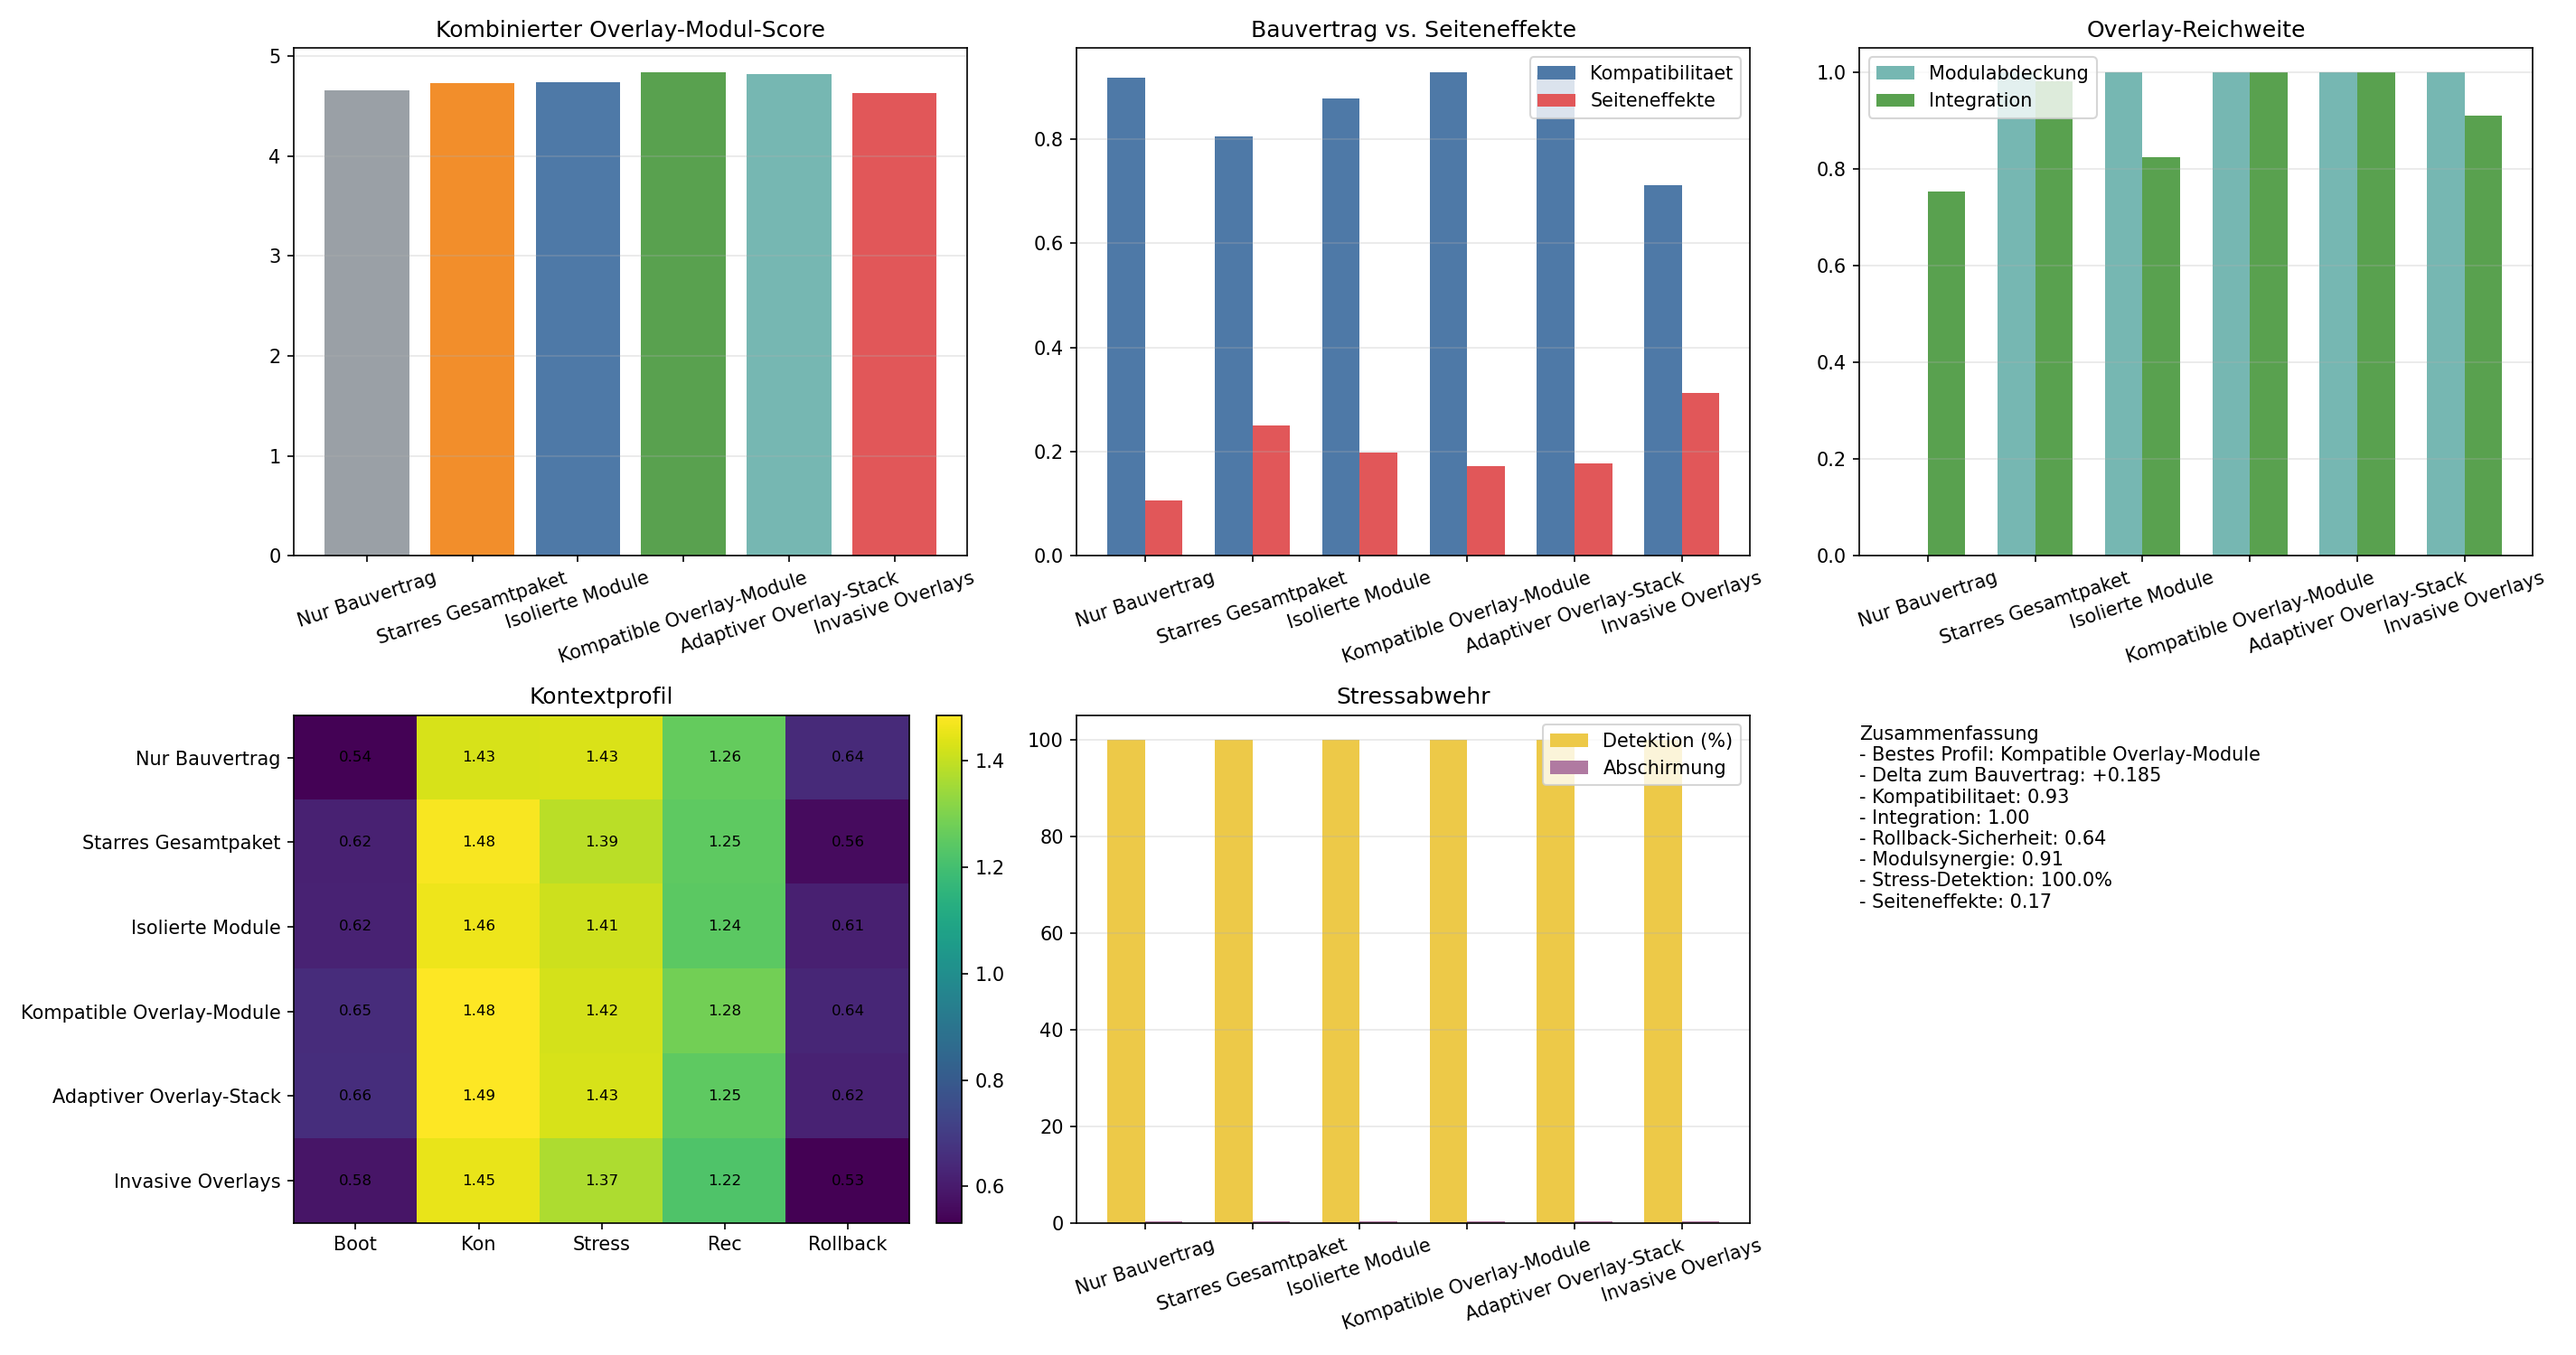
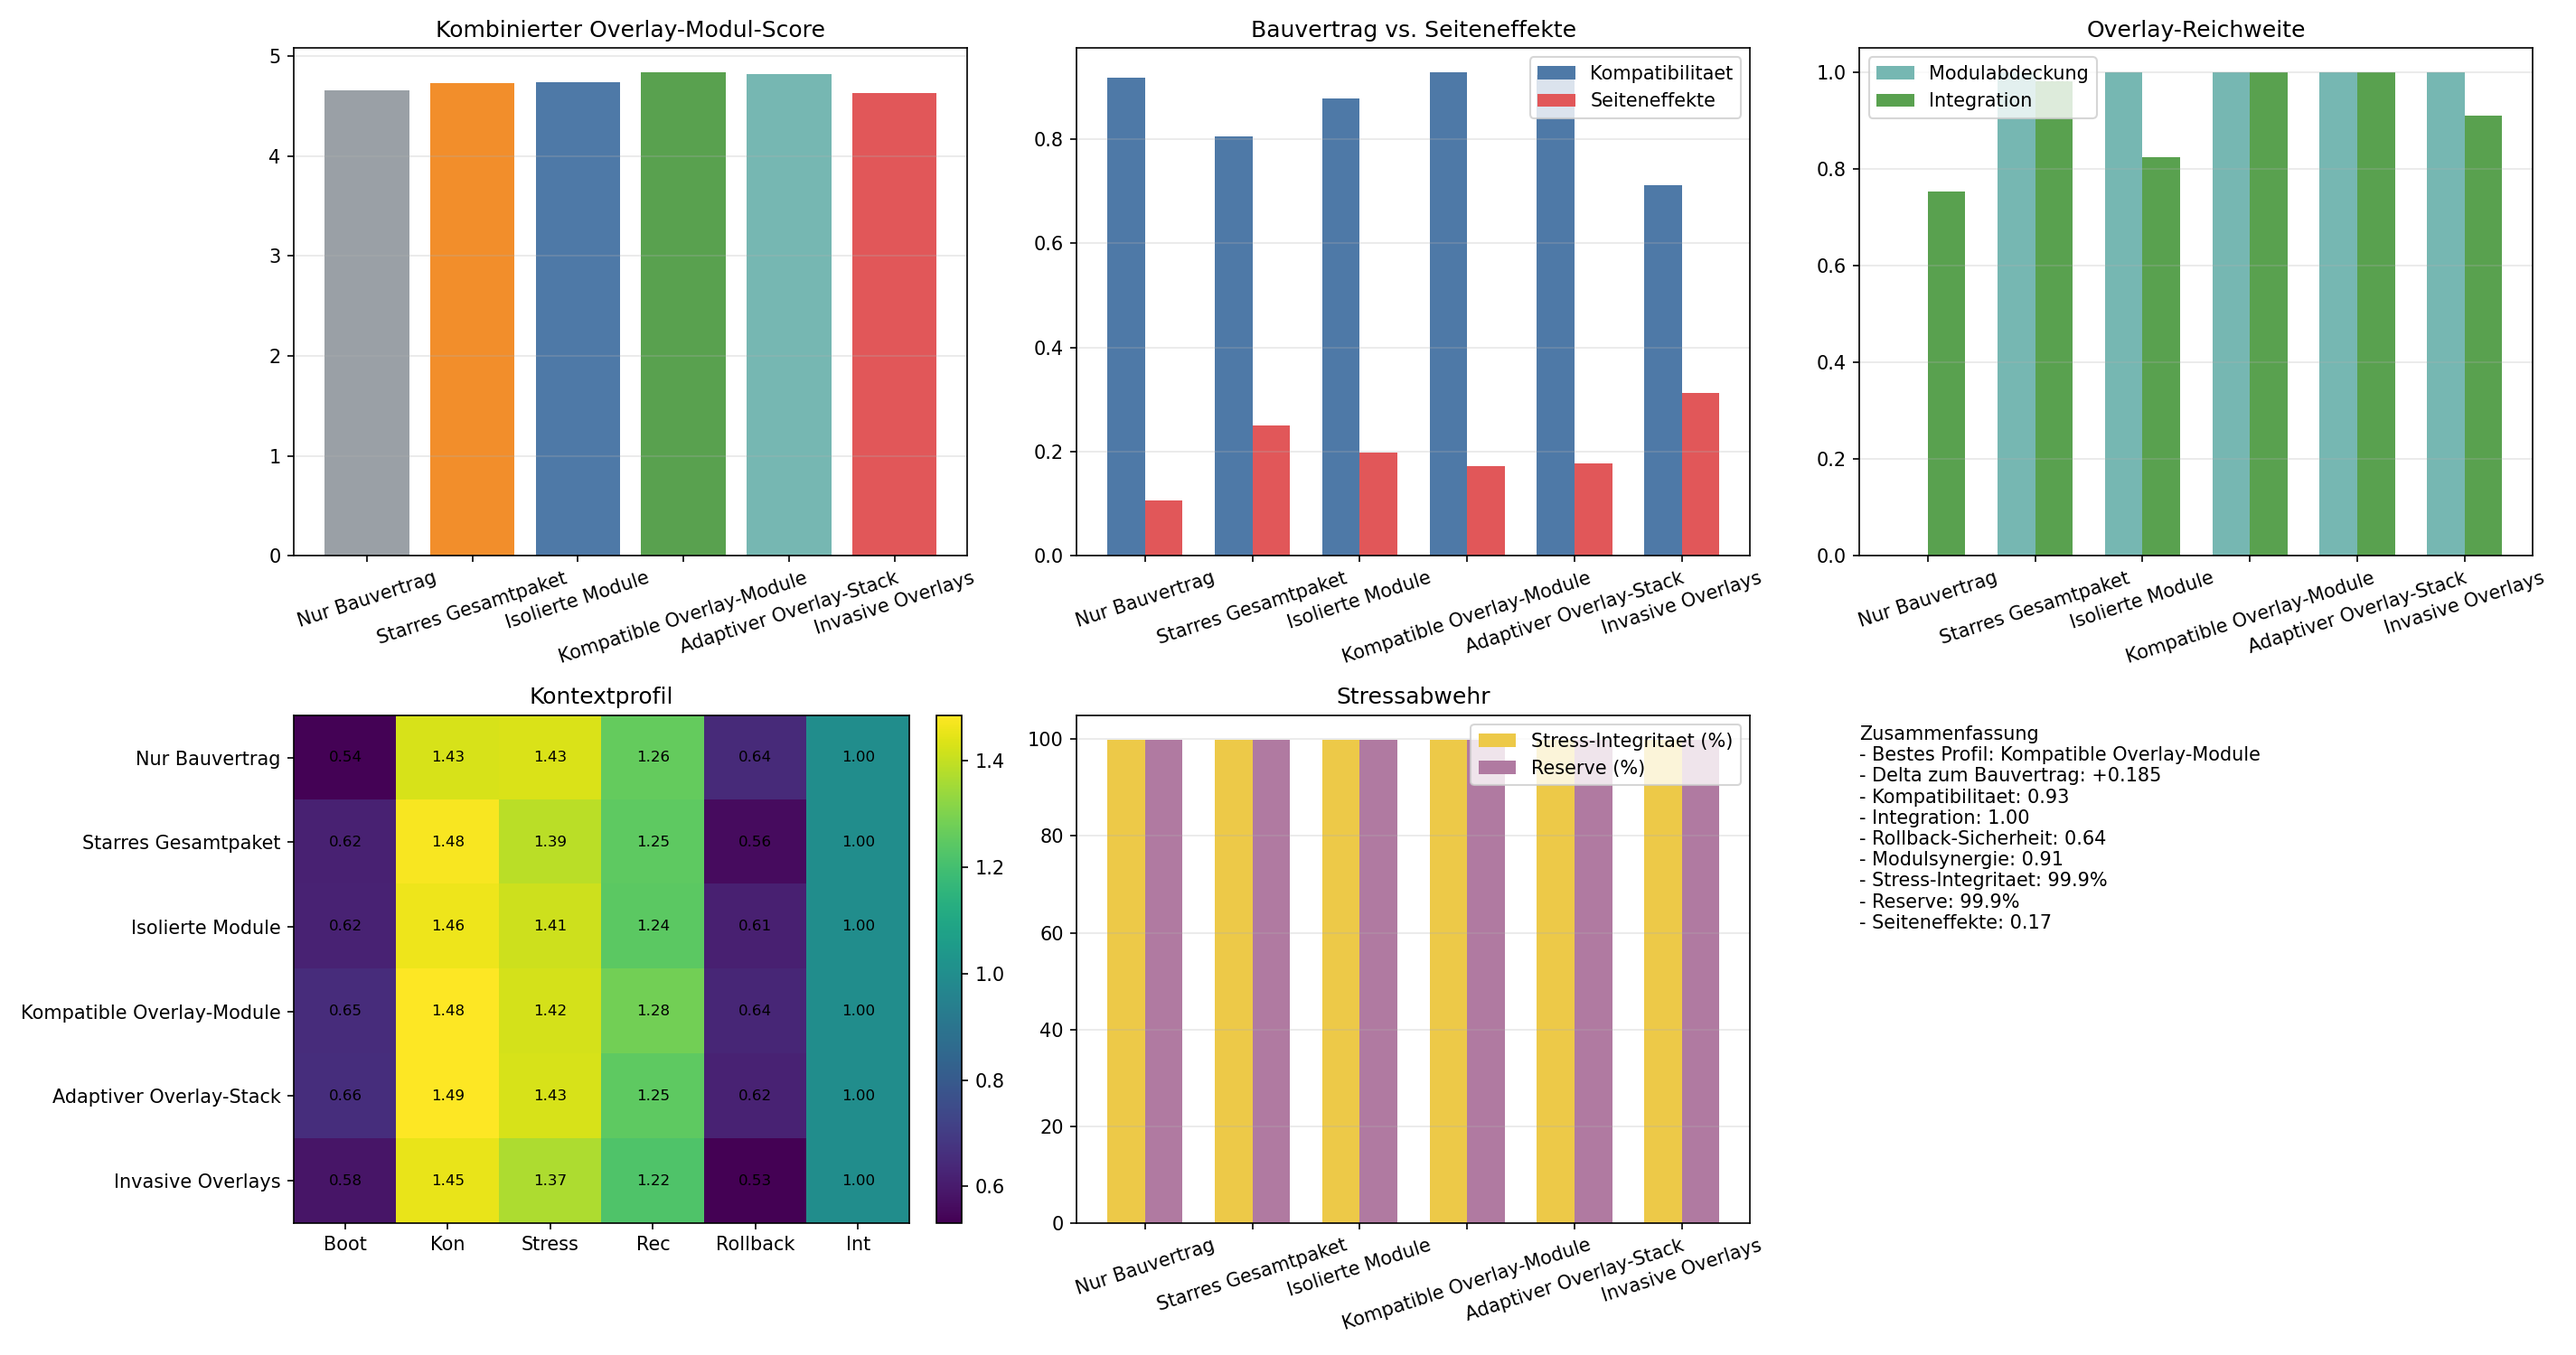
Refine overlay rollback metrics

Changed region(s): [[0.4372, 0.5213, 0.687, 0.92], [0.1249, 0.5213, 0.3747, 0.92], [0.7182, 0.644, 0.8119, 0.7053]]

diff --git a/schwarm_overlay_module.py b/schwarm_overlay_module.py
@@ -395,6 +395,10 @@ def overlay_module_metrics(config, base_contract, eintrag, key_overlap):
 
 def experiment_metrics(result):
     workflow = result['workflow_metrics']
+    corruption_mean = workflow.get('misinformation_corruption_mean', 0.0)
+    cluster_compromise_mean = workflow.get('cluster_compromise_mean', 0.0)
+    recovery_events_total = workflow.get('recovery_events_total', 0.0)
+    failed_agents_mean = workflow.get('failed_agents_mean', 0.0)
     return {
         'completion_rate': workflow.get('completion_rate', 0.0),
         'resource_efficiency': workflow.get('resource_efficiency', 0.0),
@@ -404,12 +408,14 @@ def experiment_metrics(result):
         'resource_share_rate': workflow.get('resource_share_rate', 0.0),
         'bottleneck_relief_rate': workflow.get('bottleneck_relief_rate', 0.0),
         'detection_rate': workflow.get('misinformation_detection_rate', 0.0),
-        'corruption_mean': workflow.get('misinformation_corruption_mean', 0.0),
-        'cluster_compromise_mean': workflow.get('cluster_compromise_mean', 0.0),
+        'corruption_mean': corruption_mean,
+        'stress_integrity': max(0.0, 1.0 - corruption_mean),
+        'cluster_compromise_mean': cluster_compromise_mean,
+        'compromise_reserve': max(0.0, 1.0 - cluster_compromise_mean),
         'trust_shield_mean': workflow.get('trust_shield_mean', 0.0),
-        'recovery_events_total': workflow.get('recovery_events_total', 0.0),
+        'recovery_events_total': recovery_events_total,
         'sync_strength_mean': workflow.get('sync_strength_mean', 0.0),
-        'failed_agents_mean': workflow.get('failed_agents_mean', 0.0),
+        'failed_agents_mean': failed_agents_mean,
         'mission_success': mittelwert(list(result.get('mission_success_rates', {}).values())),
         'cross_group_cooperation': result['cross_group_cooperation_rate'],
         'consensus': result['final_consensus_score'],
@@ -524,6 +530,8 @@ def summarize_runs(runs, eintrag, context_list, agent_count):
         'handoff_rate': {},
         'detection_rate': {},
         'corruption_mean': {},
+        'stress_integrity': {},
+        'compromise_reserve': {},
         'trust_shield_mean': {},
         'sync_strength_mean': {},
         'compatibility_score': {},
@@ -537,7 +545,7 @@ def summarize_runs(runs, eintrag, context_list, agent_count):
     for kontext in context_list:
         name = kontext['name']
         context_scores[name] = mittelwert([context_score(name, run[name], agent_count) for run in runs])
-        for metric_name in ['completion_rate', 'resource_efficiency', 'handoff_rate', 'detection_rate', 'corruption_mean', 'trust_shield_mean', 'sync_strength_mean']:
+        for metric_name in ['completion_rate', 'resource_efficiency', 'handoff_rate', 'detection_rate', 'corruption_mean', 'stress_integrity', 'compromise_reserve', 'trust_shield_mean', 'sync_strength_mean']:
             metrics[metric_name][name] = mittelwert([run[name]['overlay_metrics'][metric_name] for run in runs])
         for metric_name in ['compatibility_score', 'side_effect_risk', 'module_coverage', 'integration_score', 'rollback_safety', 'module_synergy']:
             metrics[metric_name][name] = mittelwert([run[name]['module_metrics'][metric_name] for run in runs])
@@ -588,8 +596,8 @@ def main():
         print(
             f"{summary['label']:<28} Score={summary['combined_score']:+.3f} | "
             f"Kompat={summary['compatibility_score']['bootstrap']:.2f} | "
-            f"Integration={summary['integration_score']['bootstrap']:.2f} | "
-            f"Seiteneffekte={summary['side_effect_risk']['bootstrap']:.2f}"
+            f"Rollback={summary['rollback_safety']['recovery']:.2f} | "
+            f"Stress-Int={summary['stress_integrity']['stress']:.1%}"
         )
 
     best = max(summaries, key=lambda item: item['combined_score'])
@@ -602,8 +610,8 @@ def main():
     )
     print(
         f"Kompatibilitaet {best['compatibility_score']['bootstrap']:.2f}, "
-        f"Integration {best['integration_score']['bootstrap']:.2f}, "
-        f"Seiteneffekte {best['side_effect_risk']['bootstrap']:.2f}"
+        f"Rollback-Sicherheit {best['rollback_safety']['recovery']:.2f}, "
+        f"Stress-Integritaet {best['stress_integrity']['stress']:.1%}"
     )
 
     labels = [item['label'] for item in summaries]
@@ -667,6 +675,7 @@ def main():
                 item['context_scores']['stress'],
                 item['context_scores']['recovery'],
                 item['rollback_safety']['recovery'],
+                item['stress_integrity']['stress'],
             ]
             for item in summaries
         ],
@@ -674,8 +683,8 @@ def main():
     )
     heatmap = axes[1, 0].imshow(heatmap_data, cmap='viridis', aspect='auto')
     axes[1, 0].set_title('Kontextprofil')
-    axes[1, 0].set_xticks([0, 1, 2, 3, 4])
-    axes[1, 0].set_xticklabels(['Boot', 'Kon', 'Stress', 'Rec', 'Rollback'])
+    axes[1, 0].set_xticks([0, 1, 2, 3, 4, 5])
+    axes[1, 0].set_xticklabels(['Boot', 'Kon', 'Stress', 'Rec', 'Rollback', 'Int'])
     axes[1, 0].set_yticks(range(len(labels)))
     axes[1, 0].set_yticklabels(labels)
     for row in range(heatmap_data.shape[0]):
@@ -685,16 +694,16 @@ def main():
 
     axes[1, 1].bar(
         x - width / 2,
-        [item['detection_rate']['stress'] * 100.0 for item in summaries],
+        [item['stress_integrity']['stress'] * 100.0 for item in summaries],
         width,
-        label='Detektion (%)',
+        label='Stress-Integritaet (%)',
         color='#edc948',
     )
     axes[1, 1].bar(
         x + width / 2,
-        [item['trust_shield_mean']['stress'] for item in summaries],
+        [item['compromise_reserve']['stress'] * 100.0 for item in summaries],
         width,
-        label='Abschirmung',
+        label='Reserve (%)',
         color='#b07aa1',
     )
     axes[1, 1].set_title('Stressabwehr')
@@ -715,7 +724,8 @@ def main():
             f"- Integration: {best['integration_score']['bootstrap']:.2f}\n"
             f"- Rollback-Sicherheit: {best['rollback_safety']['recovery']:.2f}\n"
             f"- Modulsynergie: {best['module_synergy']['consensus']:.2f}\n"
-            f"- Stress-Detektion: {best['detection_rate']['stress']:.1%}\n"
+            f"- Stress-Integritaet: {best['stress_integrity']['stress']:.1%}\n"
+            f"- Reserve: {best['compromise_reserve']['stress']:.1%}\n"
             f"- Seiteneffekte: {best['side_effect_risk']['bootstrap']:.2f}"
         ),
         va='top',
